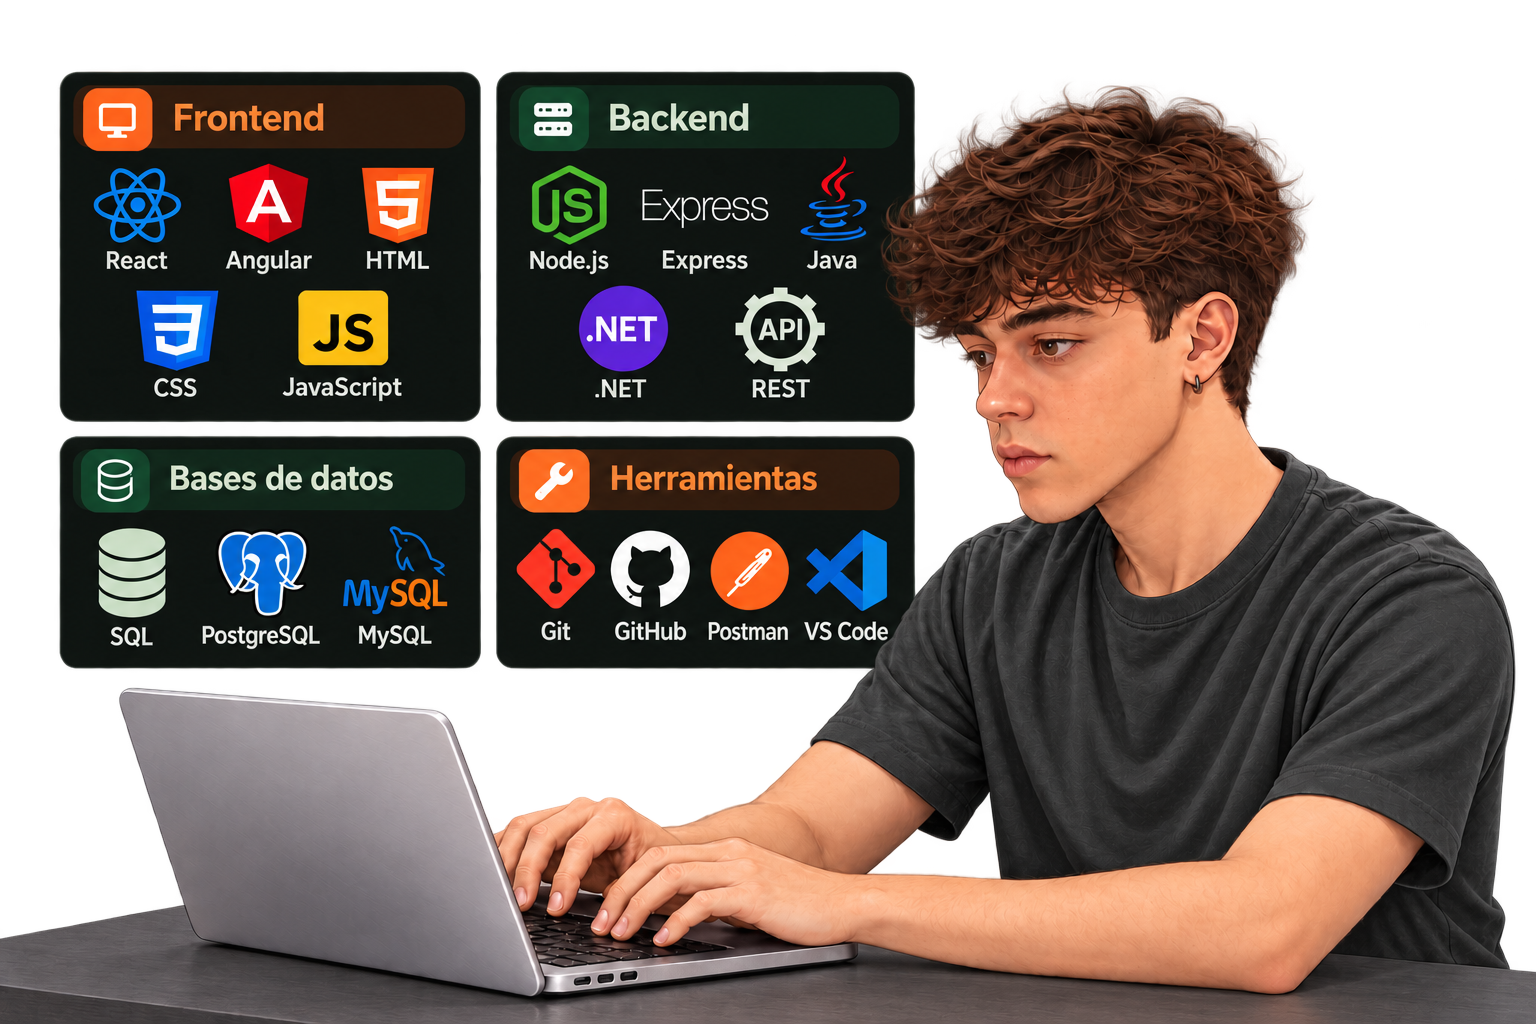
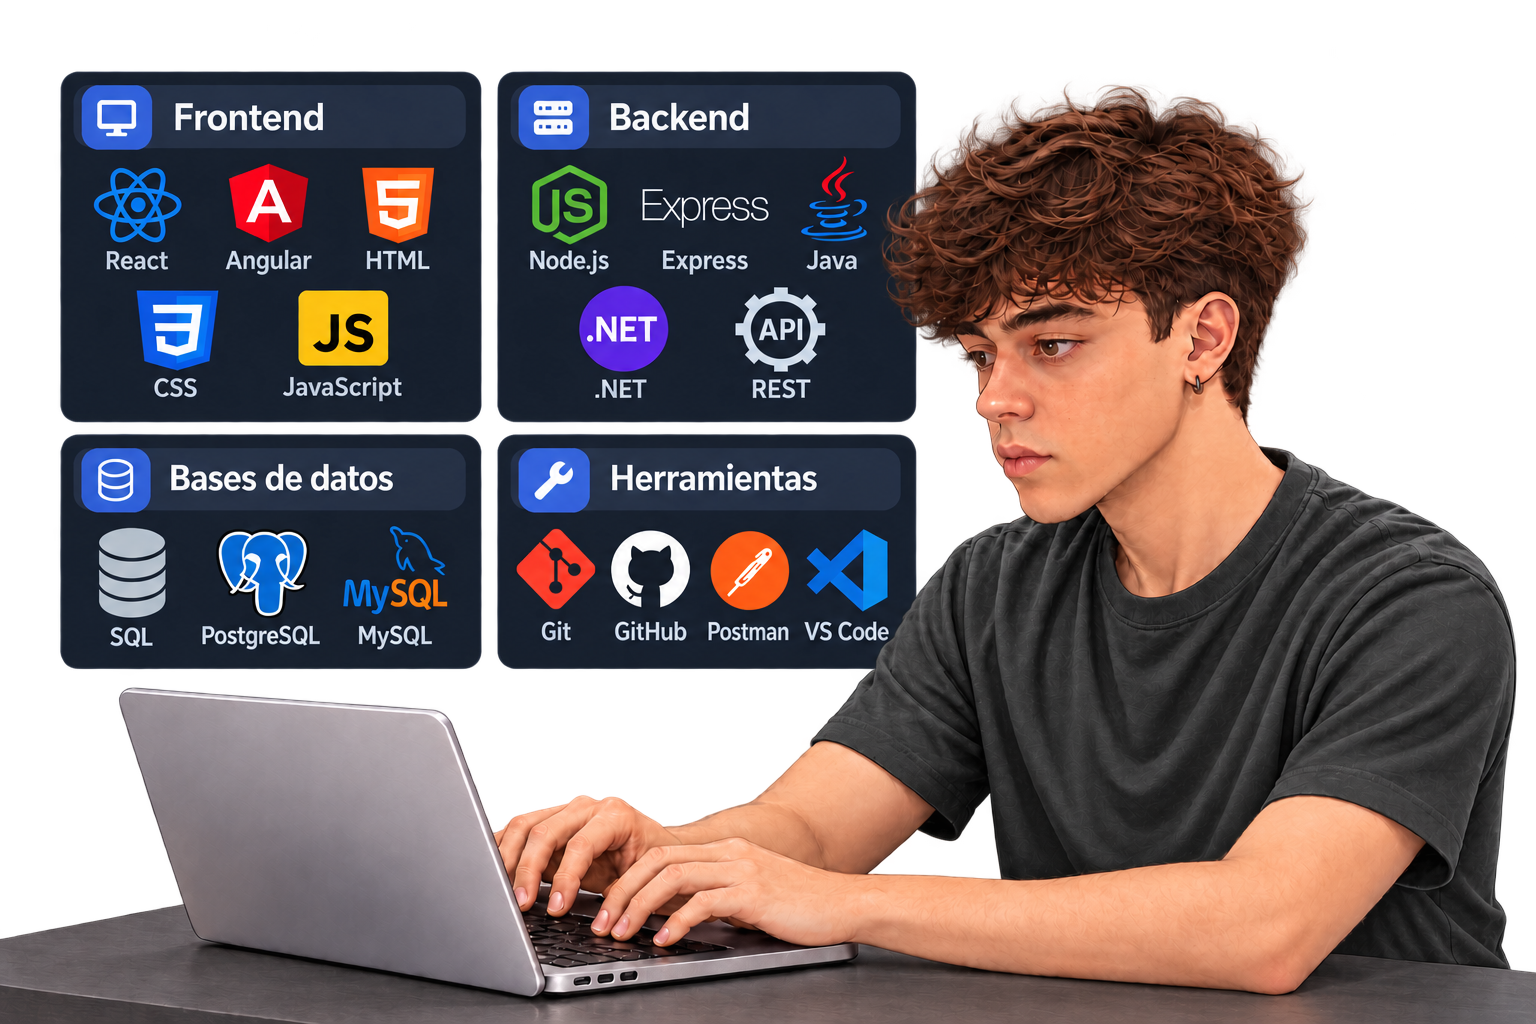
Apply white and slate navy themes with shared blue accents

diff --git a/src/index.css b/src/index.css
@@ -24,7 +24,7 @@
   font-synthesis: none;
   text-rendering: optimizeLegibility;
   -webkit-font-smoothing: antialiased;
-  background: #000000;
+  background: #151e2d;
 }
 
 * {
@@ -82,30 +82,25 @@ h1:focus {
   outline: none;
 }
 
-::selection {
-  background: #d2d2d7;
-  color: #111111;
-}
-
 .site {
   --header-height: 60px;
-  --bg: #000000;
-  --surface: #111113;
-  --surface-high: #1c1c1e;
-  --ink: #f5f5f7;
-  --muted: #a1a1a6;
-  --line: #2c2c2e;
+  --bg: #151e2d;
+  --surface: #1c283b;
+  --surface-high: #253249;
+  --ink: #f6f7fa;
+  --muted: #b2bdcd;
+  --line: #334258;
   --line-soft: color-mix(in srgb, var(--line) 72%, transparent);
   --radius-sm: 10px;
   --radius-md: 18px;
   --radius-lg: 26px;
   --radius-pill: 999px;
-  --accent: #f5f5f7;
-  --accent-soft: #f5f5f70a;
-  --accent-ink: var(--accent);
-  --on-accent: var(--bg);
-  --purple: #b5b5bb;
-  --green: #b8b8bd;
+  --accent: #4267d5;
+  --accent-soft: #4267d51a;
+  --accent-ink: #a8beff;
+  --on-accent: #ffffff;
+  --purple: var(--accent-ink);
+  --green: var(--accent-ink);
   background: var(--bg);
   color: var(--ink);
   min-height: 100vh;
@@ -115,18 +110,18 @@ h1:focus {
 }
 
 .site[data-theme="light"] {
-  --bg: #f7f1e7;
-  --surface: #fffaf3;
-  --surface-high: #eee4d4;
-  --ink: #193f33;
-  --muted: #4d6355;
-  --line: #d7cbbb;
-  --accent: #ed955a;
-  --accent-soft: #ed955a1a;
-  --accent-ink: #244638;
-  --on-accent: #193f33;
-  --purple: #284f3d;
-  --green: #24533d;
+  --bg: #ffffff;
+  --surface: #f7f8fb;
+  --surface-high: #eef1f6;
+  --ink: #15171c;
+  --muted: #596170;
+  --line: #dee2ea;
+  --accent-ink: var(--accent);
+}
+
+.site ::selection {
+  background: var(--accent);
+  color: var(--on-accent);
 }
 
 .shell {
@@ -235,18 +230,13 @@ p {
   color: var(--accent-ink);
 }
 
-.site[data-theme="light"] ::selection {
-  background: var(--accent);
-  color: var(--ink);
-}
-
 .site[data-theme="light"] .wordmark .accent {
   color: var(--accent);
 }
 
 .site[data-theme="light"] .secondary {
   background: var(--accent);
-  color: var(--ink);
+  color: var(--on-accent);
   border-color: transparent;
 }
 

diff --git a/src/Header.css b/src/Header.css
@@ -7,15 +7,15 @@
   -webkit-backdrop-filter: blur(20px);
   border-radius: var(--radius-pill);
   box-shadow:
-    8px 8px 18px #6a6b6a50,
-    -6px -6px 16px #6a6b6a50;
+    8px 8px 18px #15171c14,
+    -6px -6px 16px #15171c08;
   background: color-mix(in srgb, var(--bg) 84%, transparent);
 }
 
 .site[data-theme="dark"] .header {
   box-shadow:
-    8px 8px 18px #ffffff50,
-    -6px -6px 16px #ffffff50;
+    8px 8px 18px #080e1b66,
+    -6px -6px 16px #ffffff05;
 }
 
 .header .header-inner {
@@ -44,8 +44,8 @@
 }
 
 .header nav {
-  --nav-hover-bg: var(--ink);
-  --nav-hover-text: #fff;
+  --nav-hover-bg: var(--accent);
+  --nav-hover-text: var(--on-accent);
   grid-column: 2;
   grid-row: 1;
   justify-self: center;
@@ -90,14 +90,8 @@
   color: var(--nav-hover-text);
 }
 
-/* Fondo hundido y colores del modo oscuro. */
-
-.site[data-theme="dark"] .header nav {
-  --nav-hover-text: var(--bg);
-}
-
 .site[data-theme="dark"] .header nav .example-1 {
-  background: var(--surface);
+  background: var(--bg);
 }
 
 .header .theme-toggle {

diff --git a/src/components/ProjectDetail.css b/src/components/ProjectDetail.css
@@ -1,6 +1,6 @@
 .site[data-theme="light"] .detail-action:not(.is-primary) {
   background: var(--accent);
-  color: var(--ink);
+  color: var(--on-accent);
   border-color: transparent;
 }
 
